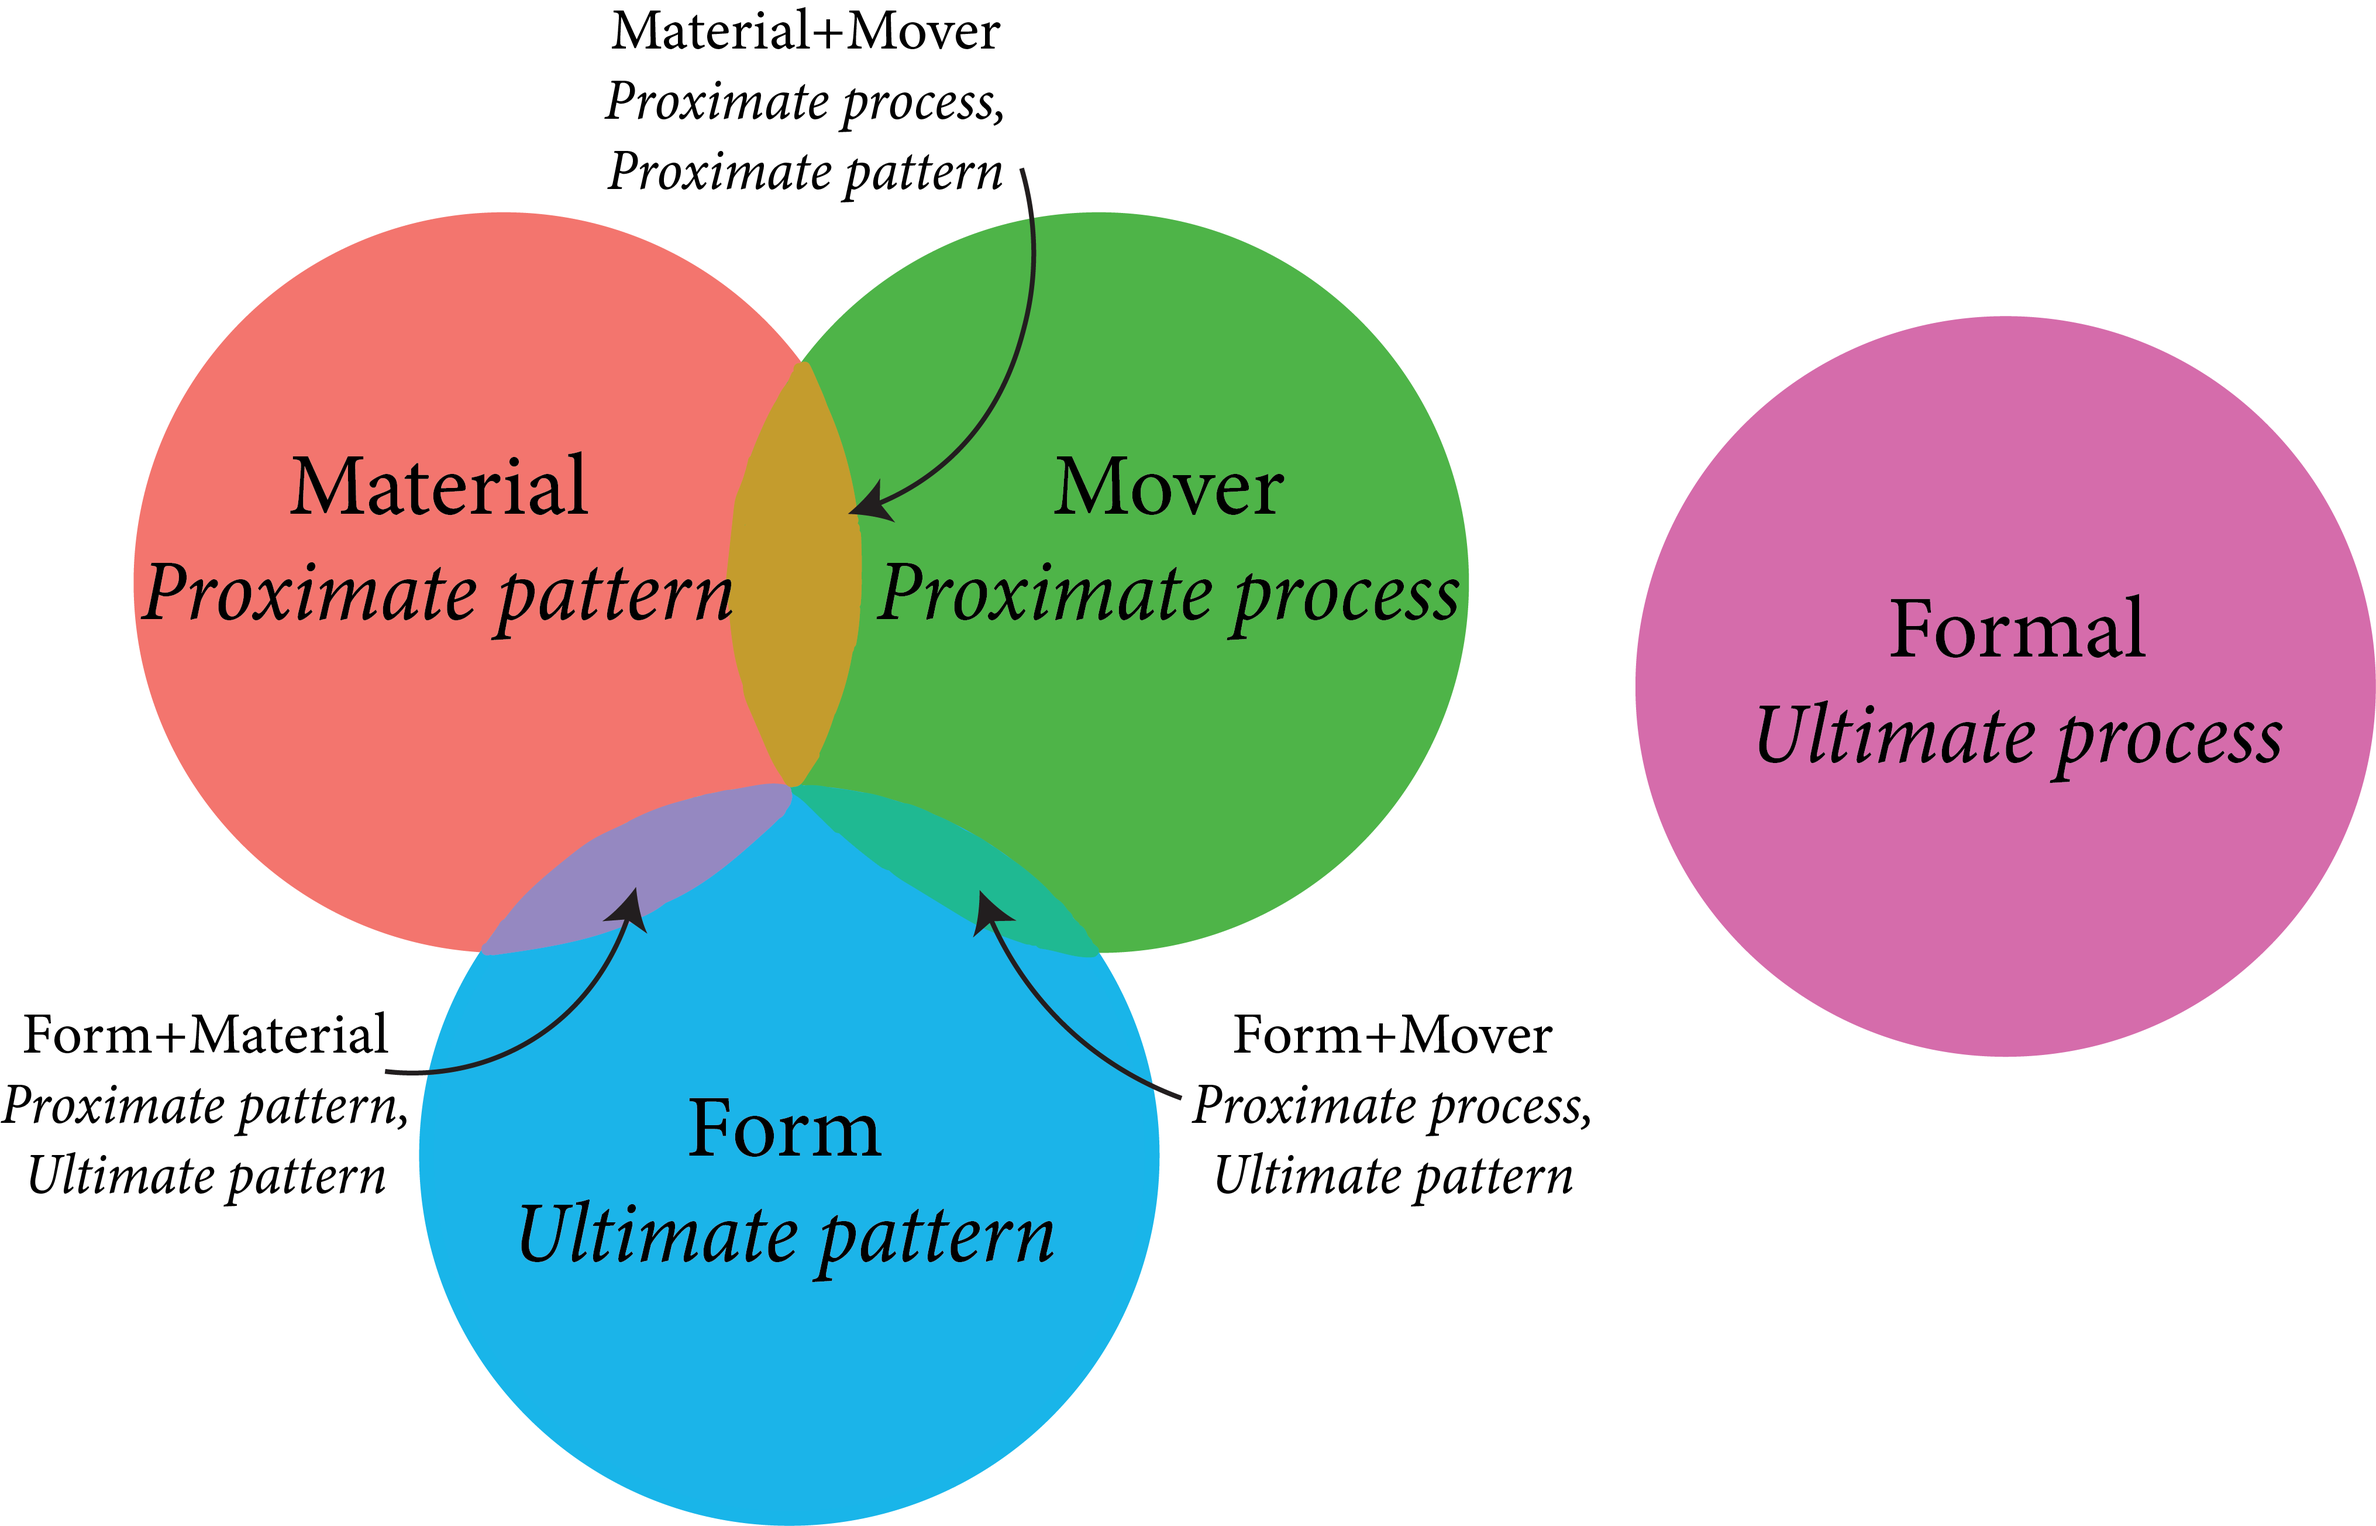
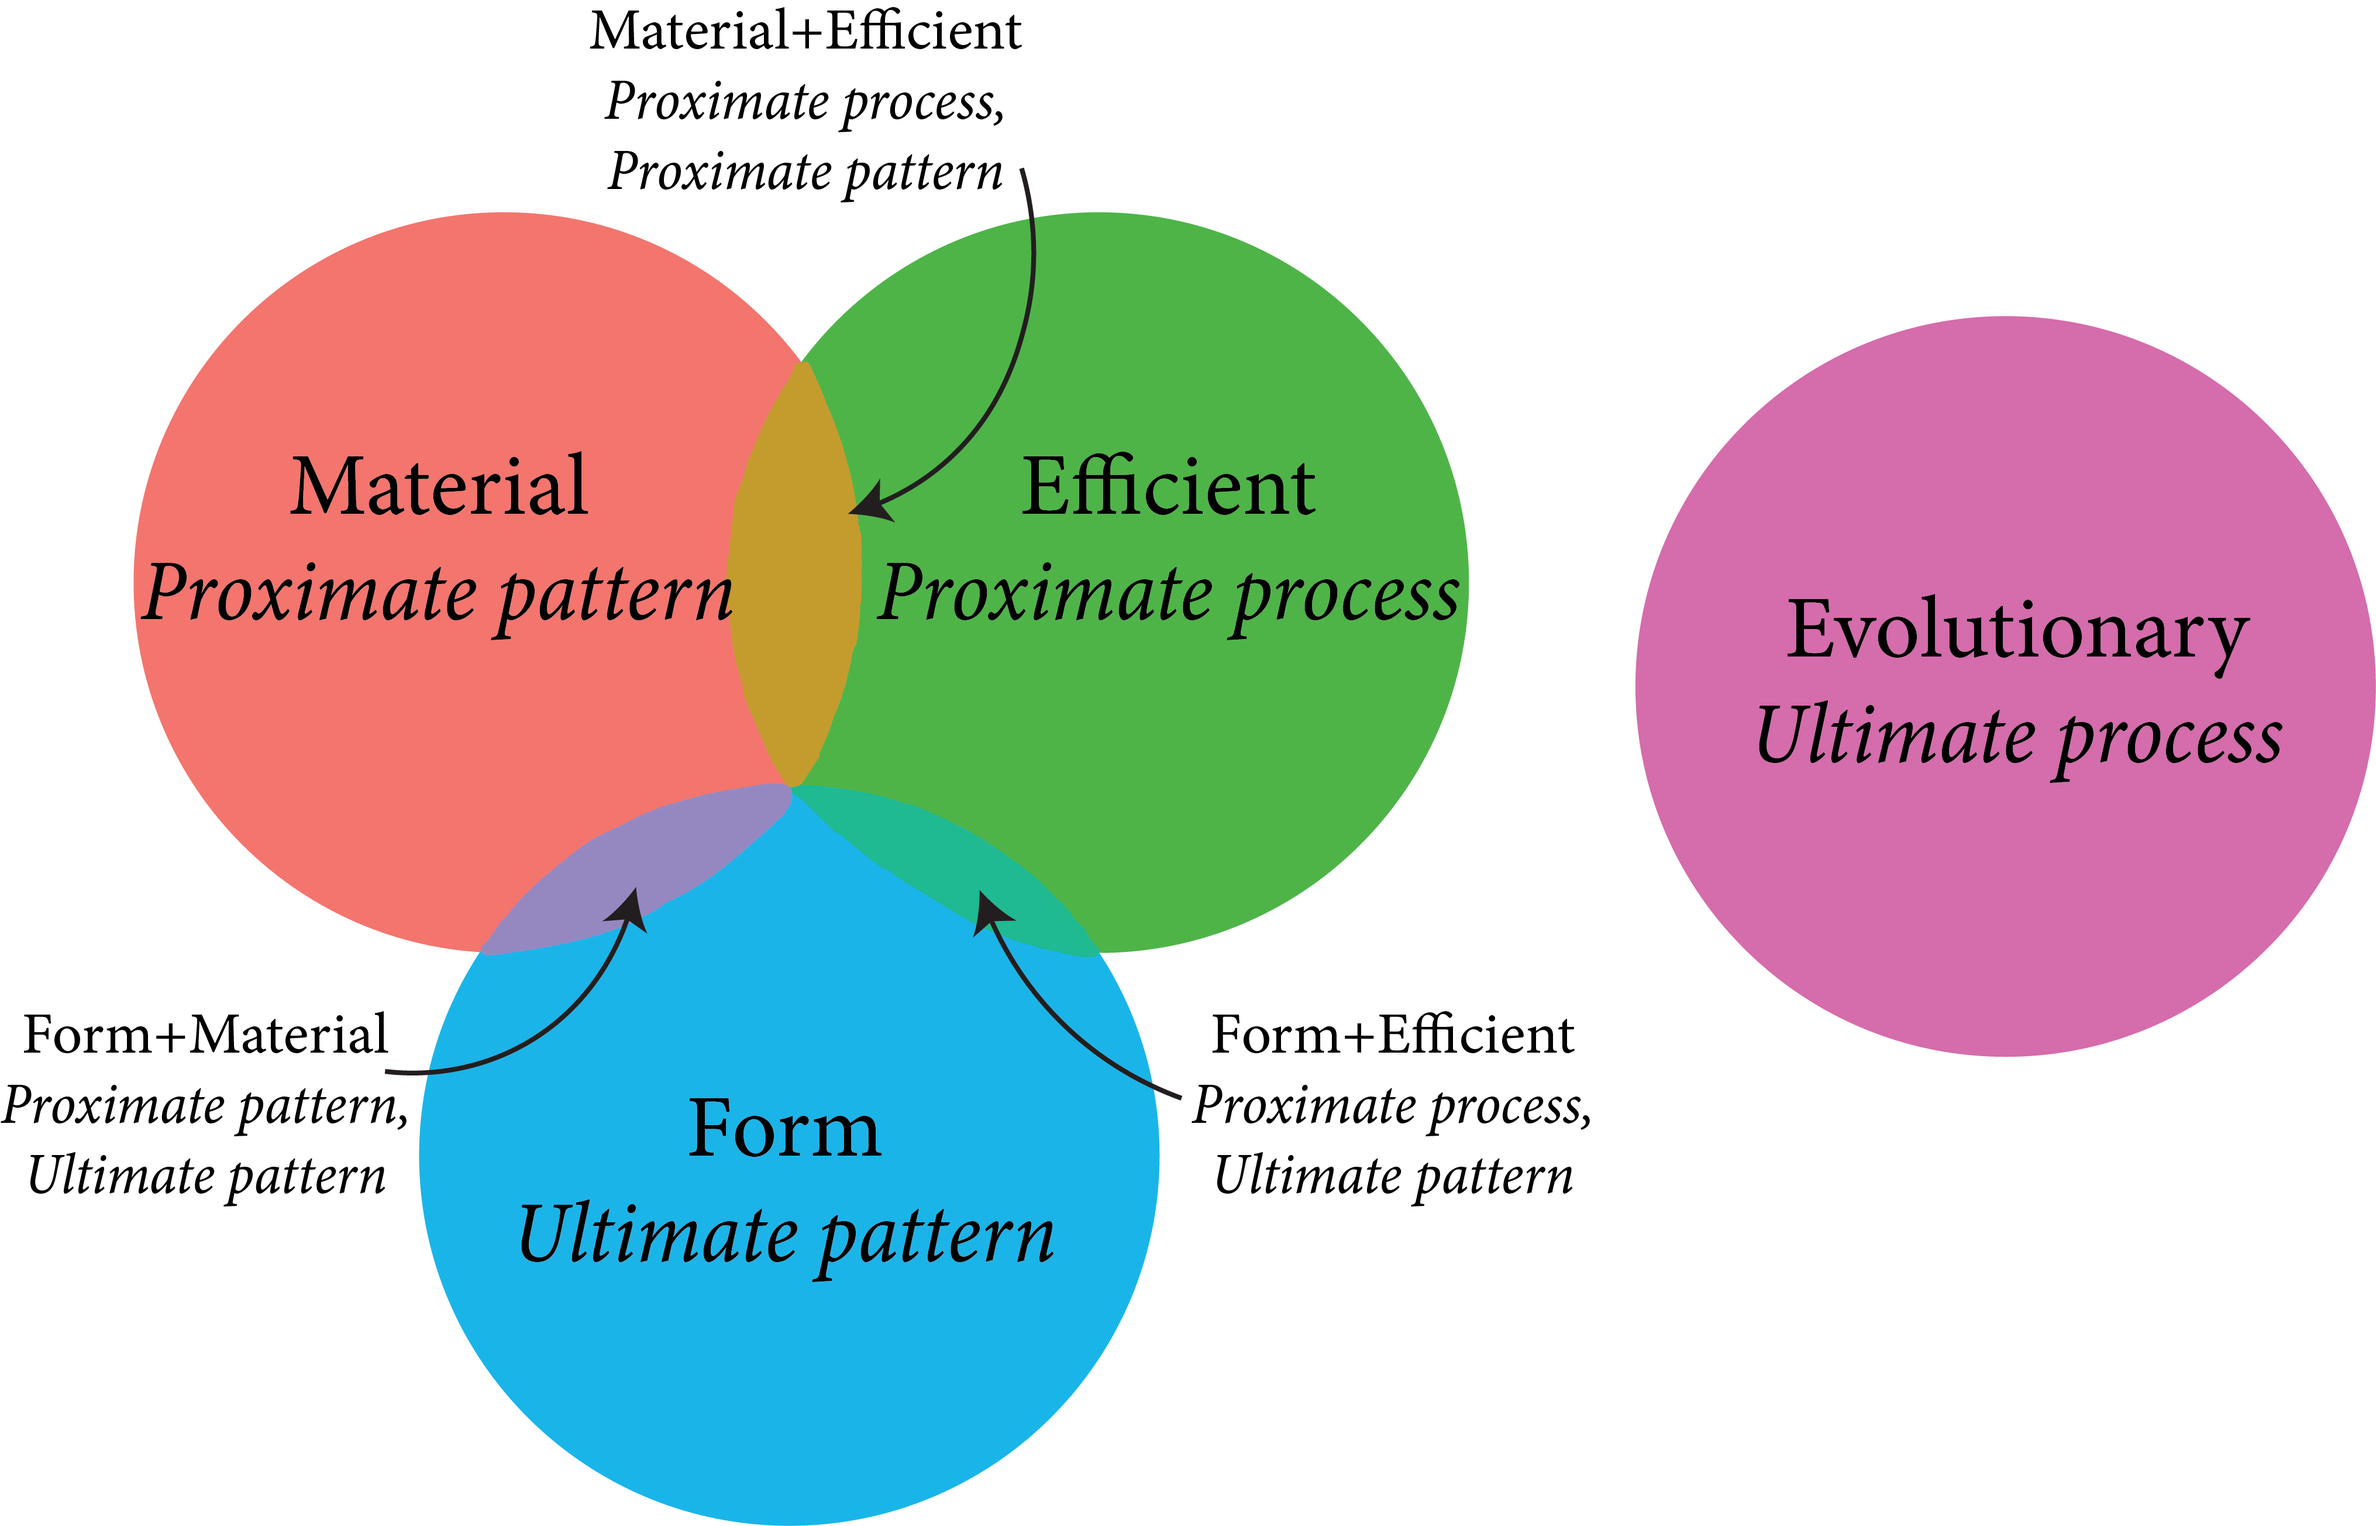
lol

diff --git a/evolution-slides.html b/evolution-slides.html
@@ -49,11 +49,10 @@ class: right, middle, title-slide, bg_fungus
 <br/>
 
 .left-align[
-<div class="contact">
-<div class="webpage"><i class="far fa-address-card" style="color: #9e4e20;"></i> <a href="https://ledelaney.org" target="_blank">@ledelaney.org</a><br></div>
-<i class="fa fa-github" style="color: #9e4e20"></i> <a href="https://github.com/ledelaney" target="_blank">@ledelaney</a><br>
-<i class="fa fa-twitter" style="color: #9e4e20"></i> <a href="https://twitter.com/emergentlyLucy" target="_blank">@emergentlyLucy</a>
-</div>]
+.contact[
+.webpage[<i class="far fa-address-card"></i> <a href="https://ledelaney.org" target="_blank">@ledelaney.org</a><br>]
+<i class="fa fa-github"></i> <a href="https://github.com/ledelaney" target="_blank">@ledelaney</a><br>
+<i class="fa fa-twitter"></i> <a href="https://twitter.com/emergentlyLucy" target="_blank">@emergentlyLucy</a>]]
 
 .pull-bottom[
 EVOLUTION · June 2021]
@@ -103,7 +102,8 @@ class: top, center, bg_lobster
 <br>
 <br>
 
-<h3 style="font-size: 42px;">M &nbsp; RCAN &nbsp; AS &nbsp; ADN &nbsp; ANC &nbsp; AA &nbsp; AC &nbsp; LUM &nbsp; K</h3>
+<h3 style="font-size: 42px;">MRC &nbsp; AR &nbsp; NAC &nbsp; DCW &nbsp; HOD &nbsp; NAFI &nbsp; FA</h3>
+
 
 
 .footnote-light[
@@ -119,7 +119,7 @@ Heath &amp; Heath, 2007]
 <br>
 <br>
 
-<h3 style="font-size: 42px;">MRCA &nbsp; NASA &nbsp; DNA &nbsp; NCAA &nbsp; ACLU &nbsp; MLK</h3>
+<h3 style="font-size: 42px;">MRCA &nbsp; RNA &nbsp; CDC &nbsp; WHO &nbsp; DNA &nbsp; FIFA</h3>
 
 --
 
@@ -229,7 +229,7 @@ class: middle, left, bg_brain
   <td>
   <span style="opacity: 0">
   <br/>
-  .italic[mover]:
+  .italic[efficient]:
   <br/>
   <br/>
   .bitlarger[🎲 &nbsp; 💘]
@@ -254,7 +254,7 @@ class: middle, left, bg_brain
   <td>
   <span style="opacity: 0">
   <br/>
-  .italic[formal]:
+  .italic[evolutionary]:
   <br/>
   <br/>
   .bitlarger[⚖ &nbsp;🌐]
@@ -300,7 +300,7 @@ class: middle, left, bg_brain
   <td>
   <span style="opacity: 0">
   <br/>
-  .italic[mover]:
+  .italic[efficient]:
   <br/>
   <br/>
   .bitlarger[🎲 &nbsp; 💘]
@@ -325,7 +325,7 @@ class: middle, left, bg_brain
   <td>
   <span style="opacity: 0">
   <br/>
-  .italic[formal]:
+  .italic[evolutionary]:
   <br/>
   <br/>
   .bitlarger[⚖ &nbsp;🌐]
@@ -371,7 +371,7 @@ class: middle, left, bg_brain
   <td>
   <span style="opacity: 0">
   <br/>
-  .italic[mover]:
+  .italic[efficient]:
   <br/>
   <br/>
   .bitlarger[🎲 &nbsp; 💘]
@@ -396,7 +396,7 @@ class: middle, left, bg_brain
   <td>
   <span style="opacity: 0">
   <br/>
-  .italic[formal]:
+  .italic[evolutionary]:
   <br/>
   <br/>
   .bitlarger[⚖ &nbsp;🌐]
@@ -441,7 +441,7 @@ class: middle, left, bg_brain
   <td>
   <span style="opacity: 1">
   <br/>
-  .italic[mover]:
+  .italic[efficient]:
   <br/>
   <br/>
   .bitlarger[🎲 &nbsp; 💘]
@@ -466,7 +466,7 @@ class: middle, left, bg_brain
   <td>
   <span style="opacity: 0">
   <br/>
-  .italic[formal]:
+  .italic[evolutionary]:
   <br/>
   <br/>
   .bitlarger[⚖ &nbsp;🌐]
@@ -511,7 +511,7 @@ class: middle, left, bg_brain
   <td>
   <span style="opacity: 1">
   <br/>
-  .italic[mover]:
+  .italic[efficient]:
   <br/>
   <br/>
   .bitlarger[🎲 &nbsp; 💘]
@@ -536,7 +536,7 @@ class: middle, left, bg_brain
   <td>
   <span style="opacity: 0">
   <br/>
-  .italic[formal]:
+  .italic[evolutionary]:
   <br/>
   <br/>
   .bitlarger[⚖ &nbsp;🌐]
@@ -582,7 +582,7 @@ class: middle, left, bg_brain
 <td>
 <span style="opacity: 1">
 <br/>
-.italic[mover]:
+.italic[efficient]:
 <br/>
 <br/>
 .bitlarger[🎲 &nbsp; 💘]
@@ -607,7 +607,7 @@ class: middle, left, bg_brain
 <td>
 <span style="opacity: 1">
 <br/>
-.italic[formal]:
+.italic[evolutionary]:
 <br/>
 <br/>
 .bitlarger[⚖ &nbsp;🌐]
@@ -640,7 +640,7 @@ class: top, center, bg_fish
 class: top, center, bg_fish
 
 .pull-left[
-<img src="css/images/figs/pre-post-causes-empty.png" width="450px"/>]
+<img src="css/images/figs/causes-empty.png" width="450px"/>]
 
 .pull-right-low[
 <img src="css/images/figs/cause-venn-diagram.png" width="390px"/>]
@@ -650,7 +650,7 @@ class: top, center, bg_fish
 
 
 .pull-left[
-<img src="css/images/figs/pre-post-causes-r1.png" width="450px"/>]
+<img src="css/images/figs/causes-half.png" width="450px"/>]
 
 .pull-right-low[
 <img src="css/images/figs/cause-venn-diagram.png" width="390px"/>]
@@ -661,7 +661,7 @@ class: top, center, bg_fish
 
 
 .pull-left[
-<img src="css/images/figs/pre-post-causes-r1-arrows.png" width="450px"/>]
+<img src="css/images/figs/causes-half-arrow.png" width="450px"/>]
 
 .pull-right-low[
 <img src="css/images/figs/cause-venn-diagram.png" width="390px"/>]
@@ -671,15 +671,10 @@ class: top, center, bg_fish
 
 
 .pull-left[
-<img src="css/images/figs/pre-post-causes-final.png" width="450px"/>]
+<img src="css/images/figs/causes-full.png" width="450px"/>]
 
 .pull-right-low[
 <img src="css/images/figs/cause-venn-diagram.png" width="390px"/>]
-
---
-
-
-<h2>.italic[how] are students constructing explanations?</h2>
 
 ---
 class: top, center, bg_sting
@@ -719,12 +714,12 @@ class: middle, bg_3birds
 ```r
 coin.flip &lt;&ndash; function(n){
 
-flips &lt;&ndash; rbinom(n = n, size = 1, prob = 0.5)
+  flips &lt;&ndash; rbinom(n = n, size = 1, prob = 0.5)
 
-outcome &lt;&ndash; ifelse(flips == 1, yes = "Heads", no = "Tails")
+  outcome &lt;&ndash; ifelse(flips == 1, yes = "Heads", no = "Tails")
    
-table(outcome) / n %>%
-return()
+  table(outcome) / n %>%
+  return()
 
 }
 ```
@@ -781,12 +776,12 @@ class: middle, bg_3birds
 ```r
 coin.flip.nonrandom &lt;&ndash; function(n, prob){
 
-flips &lt;&ndash; rbinom(n = n, size = 1, prob = prob)
+  flips &lt;&ndash; rbinom(n = n, size = 1, prob = prob)
 
-outcome &lt;&ndash; ifelse(flips == 1, yes = "Heads", no = "Tails")
+  outcome &lt;&ndash; ifelse(flips == 1, yes = "Heads", no = "Tails")
    
-table(outcome) / n %>%
-return()
+  table(outcome) / n %>%
+  return()
 
 }
 ```
@@ -799,10 +794,10 @@ coin.flip.nonrandom &lt;&ndash; function(n, prob){
 
 ** flips &lt;&ndash; rbinom(n = n, size = 1, prob = prob)
 
-outcome &lt;&ndash; ifelse(flips == 1, yes = "Heads", no = "Tails")
+  outcome &lt;&ndash; ifelse(flips == 1, yes = "Heads", no = "Tails")
    
-table(outcome) / n %>%
-return()
+  table(outcome) / n %>%
+  return()
 
 }
 ```
@@ -1006,7 +1001,7 @@ stay focused on the substance of student reasoning]
 .lotusthanks[
 .right-align[
 .bitlarger[
-.pink[<a href="https://github.com/ledelaney/06-21-Evolution" target="_blank">&nbsp; <i class="fa fa-github"></i> @ledelaney</a> Thank you! &nbsp;]]]]
+.pink[<a href="https://github.com/ledelaney/06-21-Evolution" target="_blank">&nbsp; <i class="fa fa-github" style="color: black;"></i> @ledelaney</a> Thank you! &nbsp;]]]]
 
 .footnote-light[
 Coffey .italic[et al.], 2011]
@@ -1137,57 +1132,6 @@ document
 
 <script src="https://kit.fontawesome.com/d350c46f41.js" crossorigin="anonymous"></script>
 
-<script type="text/javascript">
-var myTimerObj1 = (function(document){
-   
-   var myTimer1;
-
-   function start() {
-     myTimer1 = setInterval(myClock, 1000);
-     var c = 5;
-
-     function myClock() {
-       document.getElementById("demo1").innerHTML = --c;
-       if (c == 0) {
-         clearInterval(myTimer1);
-       }
-     }
-   }
-   
-   function end() {
-       clearInterval(myTimer1)
-   }
-
-   return {start:start, end:end};
- })(document);
-</script>
-
-
-<script type="text/javascript">
- var myTimerObj2 = (function(document){
-   
-   var myTimer2;
-
-   function start() {
-     myTimer2 = setInterval(myClock, 1000);
-     var c = 5;
-
-     function myClock() {
-       document.getElementById("demo2").innerHTML = --c;
-       if (c == 0) {
-         clearInterval(myTimer2);
-       }
-     }
-   }
-   
-   function end() {
-       clearInterval(myTimer2)
-   }
-
-   return {start:start, end:end};
- })(document);
-</script>
-
 <script>
 slideshow._releaseMath = function(el) {
   var i, text, code, codes = el.getElementsByTagName('code');
@@ -1206,17 +1150,6 @@ slideshow._releaseMath = function(el) {
   }
 };
 slideshow._releaseMath(document);
-</script>
-<!-- dynamically load mathjax for compatibility with self-contained -->
-<script>
-(function () {
-  var script = document.createElement('script');
-  script.type = 'text/javascript';
-  script.src  = 'https://mathjax.rstudio.com/latest/MathJax.js?config=TeX-MML-AM_CHTML';
-  if (location.protocol !== 'file:' && /^https?:/.test(script.src))
-    script.src  = script.src.replace(/^https?:/, '');
-  document.getElementsByTagName('head')[0].appendChild(script);
-})();
 </script>
   </body>
 </html>

diff --git a/css/mytheme.css b/css/mytheme.css
@@ -108,9 +108,17 @@ line-height: normal;
   left: 580px;
 }
 
+.title-slide > .fa-github, .fa-twitter {
+  color: #9e4e20;
+}
+
 .webpage {
   position: relative;
   left: -3px;
+}
+
+.webpage > .fa-address-card, .fa-github {
+  color: #9e4e20;
 }
 
 
